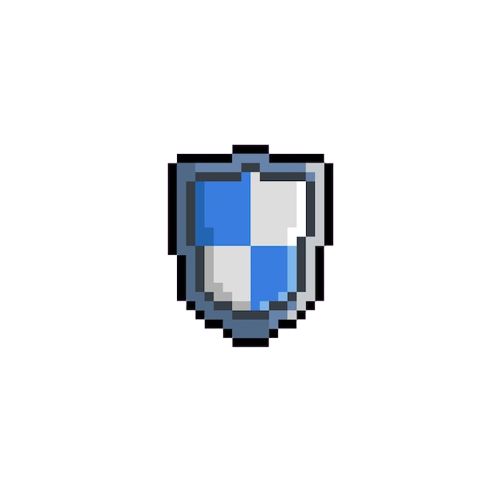
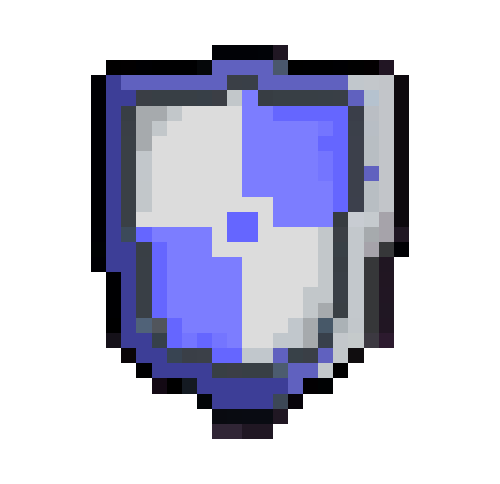
Powerup redesenhado

diff --git a/scripts/powerup.py b/scripts/powerup.py
@@ -11,7 +11,7 @@ class Powerup(pygame.sprite.Sprite):
         pygame.sprite.Sprite.__init__(self)
 
         powerup_images = {
-            "shield": pygame.image.load(path.join(getcwd() + "/assets/images/powerups/shield2.png")),
+            "shield": pygame.image.load(path.join(getcwd() + "/assets/images/powerups/shield.png")),
             "gun": pygame.image.load(path.join(getcwd() + "/assets/images/powerups/gun.png"))
         }
 
@@ -20,7 +20,7 @@ class Powerup(pygame.sprite.Sprite):
         self.__image = powerup_images[self.__type]
 
         if self.__type == "shield":
-            self.__image = pygame.transform.scale(self.__image, (30, 38))
+            self.__image = pygame.transform.scale(self.__image, (40, 40))
         else:
             self.__image = pygame.transform.scale(self.__image, (40, 40))
 
